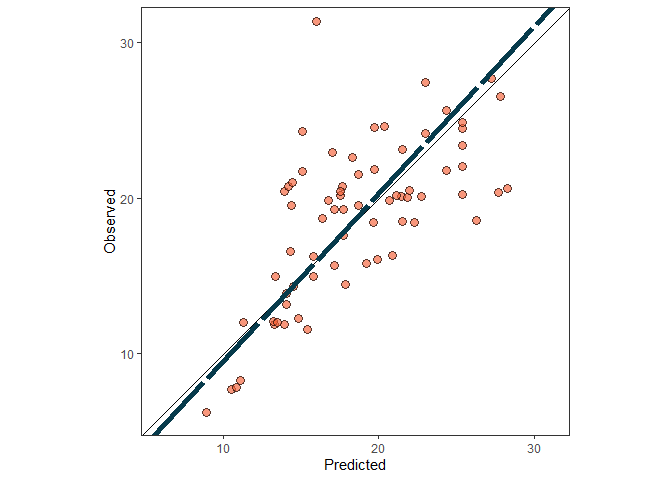
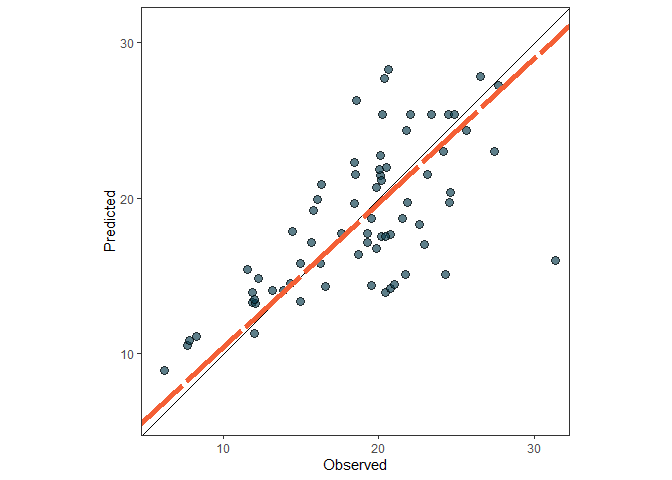
Print metrics in PO plots

diff --git a/README.md b/README.md
@@ -63,6 +63,7 @@ library(metrica)
 library(dplyr)
 library(purrr)
 library(tidyr)
+library(ggpmisc)
 
 # 1. A. Create a fake dataset
 # Set seed for reproducibility
@@ -84,8 +85,9 @@ example.data <- barley %>%  # or 'wheat', 'sorghum', or 'chickpea'
 
 # 2. Use metrica plot functions
 # 2.a. Create scatter plot with OP orientation
-metrica::scatter.plot(data = example.data, obs = measured, pred = simulated,
-             orientation = "OP")
+barley.scat.plot <- metrica::scatter.plot(data = example.data, obs = measured, pred = simulated,
+             orientation = "PO")
+barley.scat.plot
 ```
 
 <img src="man/figures/README-unnamed-chunk-2-1.png" width="100%" />
@@ -95,23 +97,25 @@ metrica::scatter.plot(data = example.data, obs = measured, pred = simulated,
 #metrica::scatter.plot(obs = example.data$obs, pred = example.data$pred)
 
 # 2.b. Create tiles plot with PO orientation
-metrica::tiles.plot(data = example.data, obs = measured, pred = simulated,
-           bins = 15, orientation = "PO")
+barley.tiles.plot <- metrica::tiles.plot(data = example.data, obs = measured, pred = simulated,
+           bins = 15, orientation = "OP")
+
+barley.tiles.plot
 ```
 
 <img src="man/figures/README-unnamed-chunk-2-2.png" width="100%" />
 
 ``` r
-
 # 2.c. Create a Bland-Altman plot
-metrica::bland.altman.plot(data = example.data,
+barley.ba.plot <- metrica::bland.altman.plot(data = example.data,
                            obs = measured, pred = simulated)
+
+barley.ba.plot
 ```
 
 <img src="man/figures/README-unnamed-chunk-2-3.png" width="100%" />
 
 ``` r
-
 # 3. Get metrics estimates
 # 3.a. Single estimates
 # 3.a.i. Estimate coefficient of determination (R2)
@@ -187,6 +191,30 @@ head(multiple.sum)
 #> 3 sorghum  <tibble [36 x 2]>  <df [41 x 2]>
 #> 4 chickpea <tibble [39 x 2]>  <df [41 x 2]>
 ```
+
+## 4. Print metrics in a plot
+
+``` r
+# Create list of selected metrics
+selected.metrics <- c("MAE","RMSE", "RRMSE", "R2", "CCC", "KGE", "PLA", "PLP")
+
+# Creat performance summary table for ggplot
+perf.table <- metrics.sum %>%
+  # Apply a filter to keep only the selected metrics
+  dplyr::filter(Metric %in% selected.metrics) %>% 
+  # Round numbers for clarity
+  mutate_if(is.numeric,~round(.,2))
+
+# PLOT, Doesn't work when using facets
+barley.scat.plot + 
+  # Annotate Table
+  ggpp::annotate(geom="table", x = 5, y = 32, label = perf.table,
+                 hjust = 0, vjust = 1)+
+  # Add SMA equation
+  geom_text(data = metrics.sum.wide, aes(x=22, y= 8, label = paste0("y = ",round(B0,2),"+",round(B1,2),"x"), hjust=0))
+```
+
+<img src="man/figures/README-unnamed-chunk-3-1.png" width="100%" />
 
 ## 4. Import simulated data from APSIM Classic (.out) and APSIM NextGen (.db)
 
